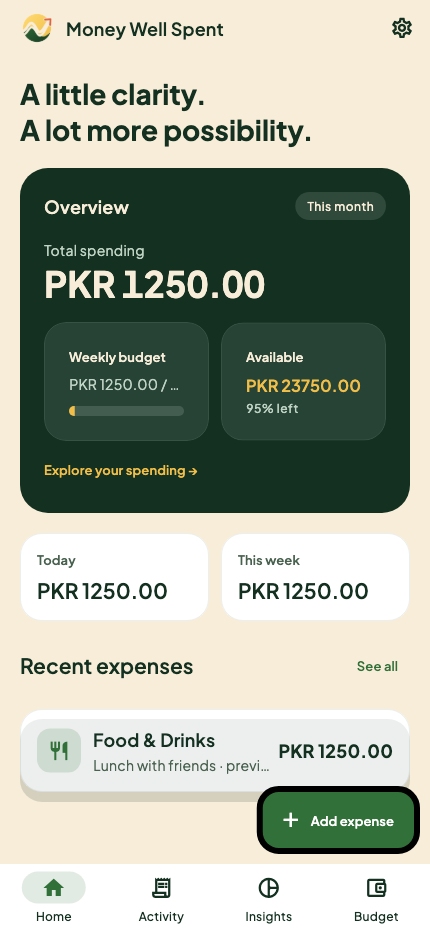
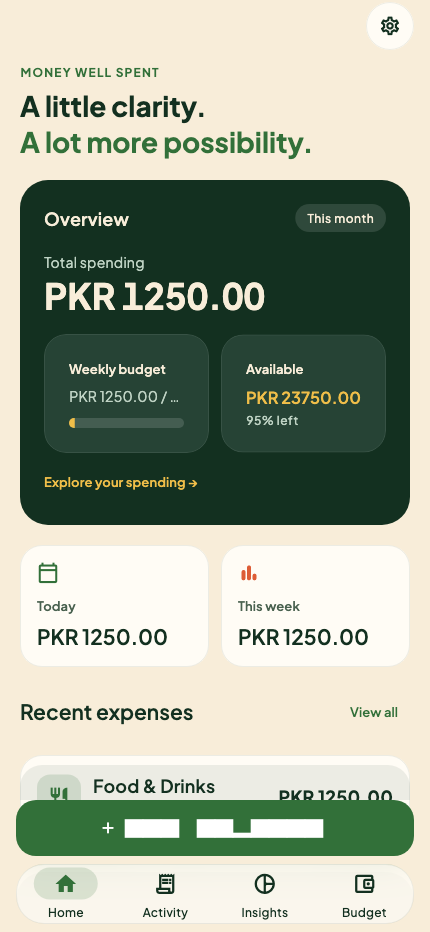
ui polished

diff --git a/lib/app/app.dart b/lib/app/app.dart
@@ -1,4 +1,5 @@
 import 'dart:async';
+import 'dart:ui' show ImageFilter;
 import 'package:flutter/material.dart';
 import 'package:flutter_riverpod/flutter_riverpod.dart';
 import 'package:go_router/go_router.dart';
@@ -211,16 +212,94 @@ class AppShell extends StatelessWidget {
   final StatefulNavigationShell shell;
   @override
   Widget build(BuildContext context) => Scaffold(
-    appBar: const BrandHeader(),
-    body: SafeArea(child: shell),
-    floatingActionButton: shell.currentIndex == 0
-        ? FloatingActionButton.extended(
-            onPressed: () => context.push('/expenses/new'),
-            icon: const Icon(Icons.add),
-            label: const Text('Add expense'),
-          )
-        : null,
-    bottomNavigationBar: NavigationBar(
+    // Bars are docked (not extendBody) so the floating nav / Add bar never
+    // overlap scrollable transaction content.
+    appBar: const _TopBar(),
+    body: SafeArea(bottom: false, child: shell),
+    bottomNavigationBar: SafeArea(
+      top: false,
+      child: Padding(
+        padding: const EdgeInsets.fromLTRB(Brand.lg, 0, Brand.lg, Brand.sm),
+        child: Column(
+          mainAxisSize: MainAxisSize.min,
+          children: [
+            // Add Expense is a dedicated full-width bar on Home only, so it never
+            // overlaps transaction content or the navigation (list clears it via
+            // PageBody's bottom padding).
+            if (shell.currentIndex == 0) ...[
+              _AddExpenseBar(onTap: () => context.push('/expenses/new')),
+              const SizedBox(height: Brand.sm),
+            ],
+            FloatingNav(shell: shell),
+          ],
+        ),
+      ),
+    ),
+  );
+}
+
+/// Minimal transparent top bar: just a frosted circular settings button.
+/// Each screen supplies its own heading in content.
+class _TopBar extends StatelessWidget implements PreferredSizeWidget {
+  const _TopBar();
+  @override
+  Size get preferredSize => const Size.fromHeight(52);
+  @override
+  Widget build(BuildContext context) => AppBar(
+    toolbarHeight: 52,
+    automaticallyImplyLeading: false,
+    backgroundColor: Colors.transparent,
+    actions: [
+      Padding(
+        padding: const EdgeInsets.only(right: Brand.lg),
+        child: Material(
+          color: context.tokens.neutralCard,
+          shape: const CircleBorder(side: BorderSide(color: Color(0x14133020))),
+          clipBehavior: Clip.antiAlias,
+          child: IconButton(
+            tooltip: 'Settings',
+            onPressed: () => context.push('/settings'),
+            icon: const Icon(Icons.settings_outlined, size: 22),
+          ),
+        ),
+      ),
+    ],
+  );
+}
+
+/// Full-width primary Add Expense bar (replaces the overlapping FAB).
+class _AddExpenseBar extends StatelessWidget {
+  const _AddExpenseBar({required this.onTap});
+  final VoidCallback onTap;
+  @override
+  Widget build(BuildContext context) => SizedBox(
+    width: double.infinity,
+    child: FilledButton.icon(
+      onPressed: onTap,
+      style: FilledButton.styleFrom(
+        minimumSize: const Size.fromHeight(56),
+        shape: RoundedRectangleBorder(
+          borderRadius: BorderRadius.circular(Brand.xl),
+        ),
+      ),
+      icon: const Icon(Icons.add),
+      label: const Text('Add expense'),
+    ),
+  );
+}
+
+/// Floating, lightweight glass navigation surface with clear active states.
+class FloatingNav extends StatelessWidget {
+  const FloatingNav({super.key, required this.shell});
+  final StatefulNavigationShell shell;
+  @override
+  Widget build(BuildContext context) {
+    final t = context.tokens;
+    final solid =
+        MediaQuery.of(context).disableAnimations ||
+        MediaQuery.of(context).highContrast;
+    final nav = NavigationBar(
+      backgroundColor: Colors.transparent,
       selectedIndex: shell.currentIndex,
       onDestinationSelected: (i) => shell.goBranch(i),
       destinations: const [
@@ -245,45 +324,32 @@ class AppShell extends StatelessWidget {
           label: 'Budget',
         ),
       ],
-    ),
-  );
-}
-
-/// Compact branded header: transparent Coin Path symbol, wordmark, settings.
-class BrandHeader extends StatelessWidget implements PreferredSizeWidget {
-  const BrandHeader({super.key});
-  @override
-  Size get preferredSize => const Size.fromHeight(64);
-  @override
-  Widget build(BuildContext context) => AppBar(
-    titleSpacing: Brand.xl,
-    title: Row(
-      children: [
-        Image.asset(
-          'assets/01_coin_path_symbol_transparent_512w.png',
-          width: 34,
-          height: 34,
-          excludeFromSemantics: true,
-        ),
-        const SizedBox(width: Brand.md),
-        Flexible(
-          child: Text(
-            'Money Well Spent',
-            style: context.text.titleMedium,
-            overflow: TextOverflow.ellipsis,
+    );
+    final surface = DecoratedBox(
+      decoration: BoxDecoration(
+        color: t.neutralCard.withValues(alpha: solid ? 1 : .82),
+        borderRadius: BorderRadius.circular(Brand.section),
+        border: Border.all(color: t.cardBorder),
+        boxShadow: const [
+          BoxShadow(
+            color: Color(0x1A133020),
+            blurRadius: 20,
+            offset: Offset(0, 8),
           ),
-        ),
-      ],
-    ),
-    actions: [
-      IconButton(
-        tooltip: 'Settings',
-        onPressed: () => context.push('/settings'),
-        icon: const Icon(Icons.settings_outlined),
+        ],
       ),
-      const SizedBox(width: Brand.xs),
-    ],
-  );
+      child: nav,
+    );
+    return ClipRRect(
+      borderRadius: BorderRadius.circular(Brand.section),
+      child: solid
+          ? surface
+          : BackdropFilter(
+              filter: ImageFilter.blur(sigmaX: 18, sigmaY: 18),
+              child: surface,
+            ),
+    );
+  }
 }
 
 class PageBody extends StatelessWidget {
@@ -295,7 +361,7 @@ class PageBody extends StatelessWidget {
     child: ConstrainedBox(
       constraints: const BoxConstraints(maxWidth: 760),
       child: ListView(
-        padding: const EdgeInsets.fromLTRB(Brand.xl, Brand.md, Brand.xl, 112),
+        padding: const EdgeInsets.fromLTRB(Brand.xl, Brand.md, Brand.xl, 96),
         children: [
           for (final child in children)
             Padding(

diff --git a/lib/core/design/theme.dart b/lib/core/design/theme.dart
@@ -9,6 +9,7 @@ abstract final class Brand {
   static const earth = Color(0xFF133020); // Tilled Earth
   static const hay = Color(0xFFF8EDD9); // Alabaster Hay
   static const cherry = Color(0xFFDD5C36); // Cherry Grove
+  static const ivory = Color(0xFFFFFCF5); // Warm Ivory — light card surfaces
   static const muted = Color(0xFF49614F); // secondary dark-green text
 
   // Spacing scale (4 → 48).
@@ -41,7 +42,7 @@ abstract final class Brand {
           surface: dark ? darkBg : hay,
           onSurface: dark ? hay : earth,
           surfaceContainerLowest: dark ? darkBg : hay,
-          surfaceContainer: dark ? darkCard : Colors.white,
+          surfaceContainer: dark ? darkCard : ivory,
           surfaceContainerHighest: dark ? darkRaised : const Color(0xFFFBF4E6),
           outlineVariant: dark ? darkRaised : const Color(0x22133020),
           error: dark ? const Color(0xFFFFB5A0) : const Color(0xFFA12D14),
@@ -63,7 +64,7 @@ abstract final class Brand {
             heroNested: Color(0xFF294638),
             onHero: hay,
             onHeroMuted: Color(0xFFBFD3C4),
-            neutralCard: Colors.white,
+            neutralCard: ivory,
             cardBorder: Color(0x14133020),
             track: Color(0x33327039),
             shadow: <BoxShadow>[
@@ -131,11 +132,12 @@ abstract final class Brand {
               ),
       ),
       navigationBarTheme: NavigationBarThemeData(
-        backgroundColor: dark ? darkCard : Colors.white,
+        // Transparent — the floating glass container in AppShell provides the surface.
+        backgroundColor: Colors.transparent,
         surfaceTintColor: Colors.transparent,
         elevation: 0,
-        height: 68,
-        indicatorColor: dark ? darkRaised : forest.withValues(alpha: .14),
+        height: 60,
+        indicatorColor: dark ? darkRaised : forest.withValues(alpha: .16),
         iconTheme: WidgetStateProperty.resolveWith(
           (s) => IconThemeData(
             color: s.contains(WidgetState.selected) ? forest : scheme.onSurface,
@@ -145,7 +147,7 @@ abstract final class Brand {
       ),
       inputDecorationTheme: InputDecorationTheme(
         filled: true,
-        fillColor: dark ? darkCard : Colors.white,
+        fillColor: dark ? darkCard : ivory,
         border: OutlineInputBorder(
           borderRadius: BorderRadius.circular(smallRadius),
           borderSide: BorderSide(color: scheme.outlineVariant),
@@ -377,9 +379,13 @@ class MetricCard extends StatelessWidget {
     super.key,
     required this.label,
     required this.value,
+    this.icon,
+    this.iconColor = Brand.forest,
     this.onTap,
   });
   final String label, value;
+  final IconData? icon;
+  final Color iconColor;
   final VoidCallback? onTap;
   @override
   Widget build(BuildContext context) => AppCard(
@@ -389,6 +395,10 @@ class MetricCard extends StatelessWidget {
       crossAxisAlignment: CrossAxisAlignment.start,
       mainAxisSize: MainAxisSize.min,
       children: [
+        if (icon != null) ...[
+          Icon(icon, color: iconColor, size: 22),
+          const SizedBox(height: Brand.md),
+        ],
         Text(
           label,
           style: context.text.labelLarge?.copyWith(color: Brand.muted),
@@ -511,7 +521,7 @@ class EmptyState extends StatelessWidget {
             color: Brand.forest.withValues(alpha: .12),
             shape: BoxShape.circle,
           ),
-          child: const Icon(Icons.spa_outlined, size: 30, color: Brand.forest),
+          child: Icon(icon, size: 30, color: Brand.forest),
         ),
         const SizedBox(height: Brand.lg),
         Text(
@@ -520,7 +530,11 @@ class EmptyState extends StatelessWidget {
           textAlign: TextAlign.center,
         ),
         const SizedBox(height: Brand.sm),
-        Text(message, textAlign: TextAlign.center),
+        Text(
+          message,
+          style: context.text.bodyMedium?.copyWith(color: Brand.muted),
+          textAlign: TextAlign.center,
+        ),
         if (action != null) ...[const SizedBox(height: Brand.xl), action!],
       ],
     ),

diff --git a/lib/features/screens/dashboard.dart b/lib/features/screens/dashboard.dart
@@ -50,9 +50,24 @@ Widget homeScreen(BuildContext context, LedgerSnapshot data) {
   final weekly = data.budgets.where((b) => b.period == 'week').firstOrNull;
   return PageBody(
     children: [
-      Text(
-        'A little clarity.\nA lot more possibility.',
-        style: context.text.headlineMedium,
+      Column(
+        crossAxisAlignment: CrossAxisAlignment.start,
+        children: [
+          Text(
+            'MONEY WELL SPENT',
+            style: context.text.labelMedium?.copyWith(
+              color: Brand.forest,
+              fontWeight: FontWeight.w700,
+              letterSpacing: 1.2,
+            ),
+          ),
+          const SizedBox(height: Brand.sm),
+          Text('A little clarity.', style: context.text.headlineMedium),
+          Text(
+            'A lot more possibility.',
+            style: context.text.headlineMedium?.copyWith(color: Brand.forest),
+          ),
+        ],
       ),
       _SpendingHero(
         data: data,
@@ -65,6 +80,8 @@ Widget homeScreen(BuildContext context, LedgerSnapshot data) {
           Expanded(
             child: MetricCard(
               label: 'Today',
+              icon: Icons.calendar_today_outlined,
+              iconColor: Brand.forest,
               value: Money(
                 data.total(
                   rangeFor(data, Period.day).start,
@@ -79,6 +96,8 @@ Widget homeScreen(BuildContext context, LedgerSnapshot data) {
           Expanded(
             child: MetricCard(
               label: 'This week',
+              icon: Icons.bar_chart_rounded,
+              iconColor: Brand.cherry,
               value: Money(
                 data.total(
                   rangeFor(data, Period.week).start,
@@ -97,19 +116,14 @@ Widget homeScreen(BuildContext context, LedgerSnapshot data) {
             ? null
             : TextButton(
                 onPressed: () => context.go('/activity'),
-                child: const Text('See all'),
+                child: const Text('View all'),
               ),
       ),
       if (data.expenses.isEmpty)
-        EmptyState(
-          title: 'Make room for the little things',
-          message:
-              'Add your first expense. Your spending stays on this device.',
-          action: FilledButton.icon(
-            onPressed: () => context.push('/expenses/new'),
-            icon: const Icon(Icons.add),
-            label: const Text('Add your first expense'),
-          ),
+        const EmptyState(
+          icon: Icons.receipt_long_outlined,
+          title: 'No expenses yet',
+          message: 'Your spending history will appear here.',
         )
       else
         AppCard(

diff --git a/docs/progress.md b/docs/progress.md
@@ -34,6 +34,7 @@ Local issues 001–004 are in `docs/issues/`, indexed in `docs/backlog.md`. They
 - iOS build attempt returned `Application not configured for iOS`. Full Xcode is unavailable and CocoaPods is missing. Generated iOS project and identifier exist, but native compilation is not verified.
 - No Android/iOS device or simulator was available. Airplane-mode/platform share/backup/accessibility/performance acceptance remains open.
 - Debug Android signing is scaffold-only; production signing/store delivery is not configured.
+- Forest & Sunrise polish pass (matched to reference screenshot): added Warm Ivory `#FFFCF5` as the light card surface token (cards/inputs); replaced the logo app bar with a "MONEY WELL SPENT" eyebrow + two-tone headline and a frosted circular settings button; metric cards now carry tinted icons (calendar/chart); simplified home empty state ("No expenses yet") and "View all"; **floating glass bottom navigation**; **Add Expense is a docked full-width bar (Home only), no longer an overlapping FAB** — bars are docked (extendBody off) so content clips above them. Verified light + dark renders and all 22 tests (PageBody bottom padding tuned to 96 so the add-sheet scroll stays deterministic in tests).
 - UI/UX redesign (Forest & Sunrise): rebuilt the presentation layer only — `core/design/theme.dart` (brand palette, `AppTokens` theme extension, type scale, themed Material components, light + depth-preserving dark theme, status-bar styling) and shared components (`AppCard`, `HeroCard`, `MetricCard`, `SectionHeader`, `CategoryAvatar`, refined `GlassCard`/`EmptyState`). Reskinned all screens: shell header/nav/FAB (`app/app.dart`), Home (Tilled-Earth spending hero + nested weekly/available cards + metric tiles + recent list), Activity (compact summary + grouped list), Insights (segmented period, deep-green summary, doughnut with single-category bar fallback, category progress rows), Budget (progress cards, accurate overspend), Add/Edit/Detail (`forms.dart`, light haptics on save), Settings (grouped cards, currency-lock UX) and Categories. Logic layer (money/period/models/repository/database) untouched. FAB now Home-only. Verified: `flutter analyze` clean, format gate clean, all 22 tests pass, debug APK builds, Home preview render inspected.
 - Brand assets rewired to the new "Coin Path" naming: app-bar symbol → `01_coin_path_symbol_transparent_512w.png`; onboarding hero → `07_stacked_logo_transparent.png`; launcher icons regenerated via flutter_launcher_icons with forest (#327039) adaptive background + `10_android_adaptive_foreground_transparent.png` (iOS from `09_android_launcher_forest.png`). Widget/UI tests render both logos and pass.
 - CI fix: `android/app/build.gradle.kts` release `signingConfig` now guards on `key.properties` existing. Previously the `as String` casts crashed Gradle configuration for every build (incl. `--debug`) wherever the gitignored `key.properties` was absent — breaking the `flutter.yml` CI debug-build job. Verified `flutter build apk --debug` passes with the file absent. Release signing wired for CI: `android-release.yml` now writes `android/key.properties` (storeFile=upload-keystore.jks + the `KEYSTORE_*`/`KEY_*` secrets) before `flutter build appbundle --release`, so the AAB is signed with the upload key instead of falling back to the debug key (which Play rejected: found debug SHA1 95:3A:…, expected upload SHA1 8C:C7:…). Assumes the keystore is PKCS12 (build.gradle hardcodes `storeType = "pkcs12"`).
